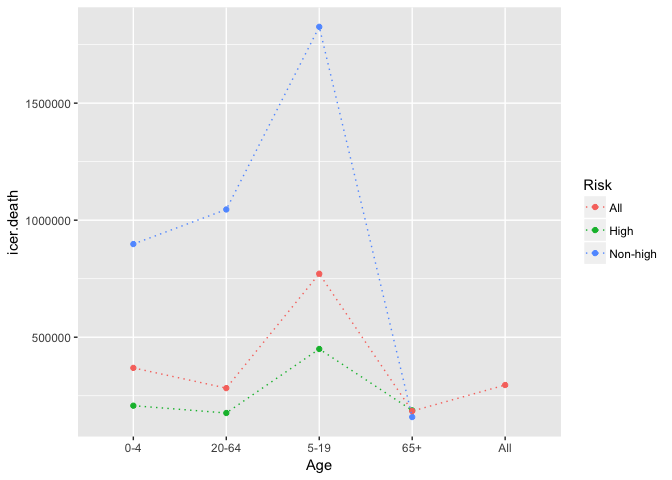
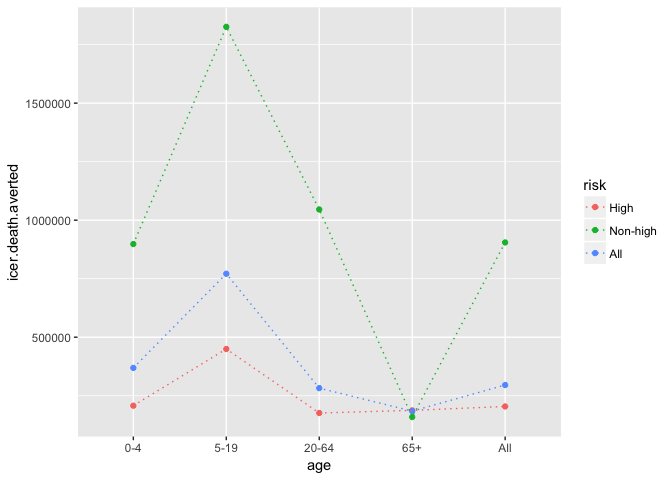
update

diff --git a/figs/draft-figs.html b/figs/draft-figs.html
@@ -125,44 +125,36 @@ $(document).ready(function () {
 <pre class="r"><code>rm(list = ls(all.names = TRUE))
 library(ggplot2)
 library(tidyr)</code></pre>
-<pre class="r"><code>#points &lt;- data.frame(label = c(&quot;Low&quot;, &quot;Mid&quot;, &quot;High&quot;),
-#                     lbound = c( 0, 0.67, 1.64),
-#                     ubound = c(0.674, 1.64, 2.33))
+<pre class="r"><code>df &lt;- read.csv(&quot;~/git/economic-influenza/df/icer-vaxbase-40.csv&quot;)
+df$age &lt;- factor(df$age, levels = c(&quot;0-4&quot;, &quot;5-19&quot;, &quot;20-64&quot;, &quot;65+&quot;, &quot;All&quot;))
+df$risk &lt;- factor(df$risk, levels = c(&quot;High&quot;, &quot;Non-high&quot;, &quot;All&quot;))
 
-df &lt;- read.csv(&quot;~/git/economic-influenza/df/icer-vaxbase-40.csv&quot;)
-df1 &lt;- df[1:12,]
+age_group_df &lt;- df[1:12,]
+
+
 
 # bar plot
-ggplot(df1, aes(x = Age, y = icer.case, fill = Risk)) + geom_bar(stat = &quot;identity&quot;, position = &quot;dodge&quot;)</code></pre>
+ggplot(df, aes(x = age, y = icer.case.averted, fill = risk)) + geom_bar(stat = &quot;identity&quot;, position = &quot;dodge&quot;)</code></pre>
 <p><img src="draft-figs_files/figure-html/unnamed-chunk-2-1.png" /><!-- --></p>
-<pre class="r"><code>ggplot(df1, aes(x = Age, y = icer.death, fill = Risk)) + geom_bar(stat = &quot;identity&quot;, position = &quot;dodge&quot;)</code></pre>
+<pre class="r"><code>ggplot(df, aes(x = age, y = icer.death.averted, fill = risk)) + geom_bar(stat = &quot;identity&quot;, position = &quot;dodge&quot;)</code></pre>
 <p><img src="draft-figs_files/figure-html/unnamed-chunk-2-2.png" /><!-- --></p>
-<pre class="r"><code>ggplot(df1, aes(x = Age, y = icer.daly, fill = Risk)) + geom_bar(stat = &quot;identity&quot;, position = &quot;dodge&quot;)</code></pre>
+<pre class="r"><code>ggplot(df, aes(x = age, y = icer.daly.averted, fill = risk)) + geom_bar(stat = &quot;identity&quot;, position = &quot;dodge&quot;)</code></pre>
 <p><img src="draft-figs_files/figure-html/unnamed-chunk-2-3.png" /><!-- --></p>
 <pre class="r"><code># line plot
-ggplot(df, aes(x = Age, y = icer.case, color = Risk, group = Risk)) + geom_point() + geom_line(linetype = &quot;dotted&quot;)</code></pre>
-<pre><code>## Warning: Removed 2 rows containing missing values (geom_point).</code></pre>
-<pre><code>## Warning: Removed 2 rows containing missing values (geom_path).</code></pre>
+ggplot(df, aes(x = age, y = icer.case.averted, color = risk, group = risk)) + geom_point() + geom_line(linetype = &quot;dotted&quot;)</code></pre>
 <p><img src="draft-figs_files/figure-html/unnamed-chunk-2-4.png" /><!-- --></p>
-<pre class="r"><code>ggplot(df, aes(x = Age, y = icer.death, color = Risk, group = Risk)) + geom_point() + geom_line(linetype = &quot;dotted&quot;)</code></pre>
-<pre><code>## Warning: Removed 2 rows containing missing values (geom_point).
-
-## Warning: Removed 2 rows containing missing values (geom_path).</code></pre>
+<pre class="r"><code>ggplot(df, aes(x = age, y = icer.death.averted, color = risk, group = risk)) + geom_point() + geom_line(linetype = &quot;dotted&quot;)</code></pre>
 <p><img src="draft-figs_files/figure-html/unnamed-chunk-2-5.png" /><!-- --></p>
-<pre class="r"><code>ggplot(df, aes(x = Age, y = icer.daly, color = Risk, group = Risk)) + geom_point() + geom_line(linetype = &quot;dotted&quot;)</code></pre>
-<pre><code>## Warning: Removed 2 rows containing missing values (geom_point).
-
-## Warning: Removed 2 rows containing missing values (geom_path).</code></pre>
+<pre class="r"><code>ggplot(df, aes(x = age, y = icer.daly.averted, color = risk, group = risk)) + geom_point() + geom_line(linetype = &quot;dotted&quot;)</code></pre>
 <p><img src="draft-figs_files/figure-html/unnamed-chunk-2-6.png" /><!-- --></p>
 <pre class="r"><code># violin plot
 
 
 # dalys averted per 100K by age
-ggplot(df1, aes(x = Age, y = dalys.averted.rate, fill = Risk)) + geom_bar(stat = &quot;identity&quot;, position = &quot;dodge&quot;)</code></pre>
+ggplot(df, aes(x = age, y = dalys.averted.rate, fill = risk)) + geom_bar(stat = &quot;identity&quot;, position = &quot;dodge&quot;)</code></pre>
 <p><img src="draft-figs_files/figure-html/unnamed-chunk-2-7.png" /><!-- --></p>
 <pre class="r"><code># scatter plot: dalys averted per 100K by cost difference
-ggplot(df, aes(x=cost.diff, y=dalys.averted.rate, shape = Risk, color = Age)) + geom_point()</code></pre>
-<pre><code>## Warning: Removed 2 rows containing missing values (geom_point).</code></pre>
+ggplot(df, aes(x = cost.diff, y = dalys.averted.rate, shape = risk, color = age)) + geom_point()</code></pre>
 <p><img src="draft-figs_files/figure-html/unnamed-chunk-2-8.png" /><!-- --></p>
 
 

diff --git a/figs/draft-figs.md b/figs/draft-figs.md
@@ -19,66 +19,47 @@ library(tidyr)
 
 
 ```r
-#points <- data.frame(label = c("Low", "Mid", "High"),
-#                     lbound = c( 0, 0.67, 1.64),
-#                     ubound = c(0.674, 1.64, 2.33))
-
 df <- read.csv("~/git/economic-influenza/df/icer-vaxbase-40.csv")
-df1 <- df[1:12,]
+df$age <- factor(df$age, levels = c("0-4", "5-19", "20-64", "65+", "All"))
+df$risk <- factor(df$risk, levels = c("High", "Non-high", "All"))
+
+age_group_df <- df[1:12,]
+
+
 
 # bar plot
-ggplot(df1, aes(x = Age, y = icer.case, fill = Risk)) + geom_bar(stat = "identity", position = "dodge")
+ggplot(df, aes(x = age, y = icer.case.averted, fill = risk)) + geom_bar(stat = "identity", position = "dodge")
 ```
 
 ![](draft-figs_files/figure-html/unnamed-chunk-2-1.png)<!-- -->
 
 ```r
-ggplot(df1, aes(x = Age, y = icer.death, fill = Risk)) + geom_bar(stat = "identity", position = "dodge")
+ggplot(df, aes(x = age, y = icer.death.averted, fill = risk)) + geom_bar(stat = "identity", position = "dodge")
 ```
 
 ![](draft-figs_files/figure-html/unnamed-chunk-2-2.png)<!-- -->
 
 ```r
-ggplot(df1, aes(x = Age, y = icer.daly, fill = Risk)) + geom_bar(stat = "identity", position = "dodge")
+ggplot(df, aes(x = age, y = icer.daly.averted, fill = risk)) + geom_bar(stat = "identity", position = "dodge")
 ```
 
 ![](draft-figs_files/figure-html/unnamed-chunk-2-3.png)<!-- -->
 
 ```r
 # line plot
-ggplot(df, aes(x = Age, y = icer.case, color = Risk, group = Risk)) + geom_point() + geom_line(linetype = "dotted")
-```
-
-```
-## Warning: Removed 2 rows containing missing values (geom_point).
-```
-
-```
-## Warning: Removed 2 rows containing missing values (geom_path).
+ggplot(df, aes(x = age, y = icer.case.averted, color = risk, group = risk)) + geom_point() + geom_line(linetype = "dotted")
 ```
 
 ![](draft-figs_files/figure-html/unnamed-chunk-2-4.png)<!-- -->
 
 ```r
-ggplot(df, aes(x = Age, y = icer.death, color = Risk, group = Risk)) + geom_point() + geom_line(linetype = "dotted")
-```
-
-```
-## Warning: Removed 2 rows containing missing values (geom_point).
-
-## Warning: Removed 2 rows containing missing values (geom_path).
+ggplot(df, aes(x = age, y = icer.death.averted, color = risk, group = risk)) + geom_point() + geom_line(linetype = "dotted")
 ```
 
 ![](draft-figs_files/figure-html/unnamed-chunk-2-5.png)<!-- -->
 
 ```r
-ggplot(df, aes(x = Age, y = icer.daly, color = Risk, group = Risk)) + geom_point() + geom_line(linetype = "dotted")
-```
-
-```
-## Warning: Removed 2 rows containing missing values (geom_point).
-
-## Warning: Removed 2 rows containing missing values (geom_path).
+ggplot(df, aes(x = age, y = icer.daly.averted, color = risk, group = risk)) + geom_point() + geom_line(linetype = "dotted")
 ```
 
 ![](draft-figs_files/figure-html/unnamed-chunk-2-6.png)<!-- -->
@@ -88,18 +69,14 @@ ggplot(df, aes(x = Age, y = icer.daly, color = Risk, group = Risk)) + geom_point
 
 
 # dalys averted per 100K by age
-ggplot(df1, aes(x = Age, y = dalys.averted.rate, fill = Risk)) + geom_bar(stat = "identity", position = "dodge")
+ggplot(df, aes(x = age, y = dalys.averted.rate, fill = risk)) + geom_bar(stat = "identity", position = "dodge")
 ```
 
 ![](draft-figs_files/figure-html/unnamed-chunk-2-7.png)<!-- -->
 
 ```r
 # scatter plot: dalys averted per 100K by cost difference
-ggplot(df, aes(x=cost.diff, y=dalys.averted.rate, shape = Risk, color = Age)) + geom_point()
-```
-
-```
-## Warning: Removed 2 rows containing missing values (geom_point).
+ggplot(df, aes(x = cost.diff, y = dalys.averted.rate, shape = risk, color = age)) + geom_point()
 ```
 
 ![](draft-figs_files/figure-html/unnamed-chunk-2-8.png)<!-- -->
